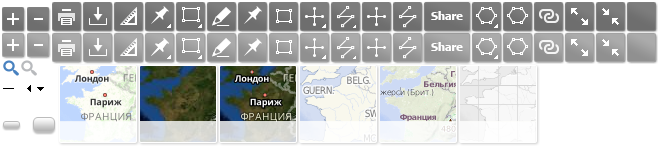
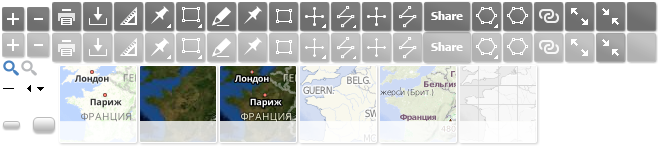
Текущая версия новых контролов

Changed region(s): [[0.0, 0.2192, 0.9105, 0.4384], [0.9408, 0.2192, 1.0, 0.4384]]

diff --git a/src-api/controlsBaseIcons.js b/src-api/controlsBaseIcons.js
@@ -1671,7 +1671,7 @@
             this.isVisible = flag;
         }
         ,remove: function() {      // удаление
-            if(Controls.id != gmxAPI.map.controlsManager.getCurrent()) return;
+            if(Controls.id != gmxAPI.map.controlsManager.getCurrentID()) return;
             this.forEach(function(item, i) {
                 if('remove' in item) item.remove();
             });
@@ -1693,21 +1693,136 @@
             });
             return res;
         }
-        ,
-        setControls: function(id) {
+         ,addControl: function(key, pt) {
+/*
+            var res = null;
+			var ph = gmxAPI.extend({
+                id: key || pt.id
+                ,isActive: false
+                ,attr: {
+                    title: pt.title || pt.hint
+                }
+                ,events: {}
+                ,style: gmxAPI.extend(pt.style, iconsControl.styleIcon, true)
+                ,hoverStyle: pt.hoverStyle
+            }, pt);
+
+            if(pt.onClick) ph.events.onclick = pt.onClick;
+			var item = iconsControl.addItemNode(ph);
+            iconsControl.itemsNode.appendChild(item);
+            var tool = {
+                id: ph.id
+                ,node: item
+            }
+            if(pt.type !== 'hideItem') {
+                iconsControl.items.push(tool);
+                iconsControl.items[ph.id] = tool;
+            }
+*/
+            var id = key || pt.id;
+            if(Controls.controlsHash[id]) return null; // такой контрол уже имеется
+            var title = pt.title || pt.hint;
+			var attr = {
+                id: id
+                ,rus: pt.rus || title
+                ,eng: pt.eng || title
+                ,style: gmxAPI.extend(pt.style, iconsControl.styleIcon, true)
+                ,hoverStyle: pt.hoverStyle
+            };
+            
+            if(pt.regularImageUrl) {
+                attr.src = pt.regularImageUrl;
+                attr.style = {
+                    position: 'relative'
+                    ,background: 'rgba(154, 154, 154, 0.7)'
+
+                };
+            }
+            if(pt.activeImageUrl) {
+                attr.srcHover = pt.activeImageUrl;
+                attr.hoverStyle = {
+                    position: 'relative'
+                    ,background: 'rgba(154, 154, 154, 1)'
+                };
+            }
+            if(pt.onClick) attr.onClick = pt.onClick;
+            if(pt.onCancel) attr.onCancel = pt.onCancel;
+            //if(pt.overlay) attr.onCancel = pt.onCancel;
+
+            // Добавление пользовательского контрола
+            var userControl = L.control.gmxControl({
+                title: gmxAPI.KOSMOSNIMKI_LOCALIZED(attr.rus, attr.eng)
+                ,isActive: false
+                ,onFinishID: null
+                ,type: id
+                ,onAdd: function() {
+                    //gmxAPI.setStyleHTML(this._container, attr.style);
+                    var my = this;
+                    var container = this._container;
+                    if(pt.regularImageUrl) {
+                        var className = 'leaflet-control-Image leaflet-control-' + this.options.type + '-Image';
+                        this._Image = L.DomUtil.create('img', className);
+                        this._Image.src = pt.regularImageUrl;
+                        container.appendChild(this._Image);
+                        gmxAPI.setStyleHTML(container, attr.style);
+                        L.DomEvent.on(container, 'mouseover', function (e) {
+                            if(pt.activeImageUrl) my._Image.src = pt.activeImageUrl;
+                            gmxAPI.setStyleHTML(container, attr.hoverStyle);
+                        });
+                        L.DomEvent.on(container, 'mouseout', function (e) {
+                            if(!my.options.isActive) {
+                                my._Image.src = pt.regularImageUrl;
+                                gmxAPI.setStyleHTML(container, attr.style);
+                            }
+                        });
+                    }
+                }
+                ,onclick: function(e) {
+                    if(!this.options.isActive) {
+                        this.options.isActive = true;
+                        if(attr.onClick) attr.onClick.call(this);
+                        if(pt.regularImageUrl) {
+                            this._Image.src = pt.activeImageUrl;
+                        }
+                        gmxAPI.setStyleHTML(container, attr.style);
+                    } else {
+                        this.options.isActive = false;
+                        if(attr.onCancel) attr.onCancel.call(this);
+                        if(pt.regularImageUrl) {
+                            this._Image.src = pt.regularImageUrl;
+                        }
+                        gmxAPI.setStyleHTML(container, attr.hoverStyle);
+                    }
+                }
+            });
+            userControl.addTo(gmxAPI._leaflet.LMap);
+            Controls.controlsHash[id] = userControl;
+            return userControl;
+        }
+       ,
+        setControls: function() {
             var outControls = {};
             var mbl = gmxAPI.map.baseLayersManager;
+            var defaultStyle = {
+                //backgroundImage: 'url("../../api/img/iconeControls.png")'
+                cursor: 'pointer'
+                ,width: '30px'
+                ,height: '30px'
+                ,clear: 'none'
+            }
 
             // gmxControl - прототип контрола из одной кнопки
             L.Control.gmxControl = L.Control.extend({
                 options: {
                     isVisible: true,
                     type: '',
+                    onclick: null,
+                    onAdd: null,
                     position: 'topleft'
                 }
                 ,
                 _initLayout: function () {
-                    var className = 'leaflet-control-' + this.options.type,
+                    var className = 'leaflet-control-icons leaflet-control-' + this.options.type,
                         container = this._container = L.DomUtil.create('div', className);
 
                     if(this.options.title) container.title = this.options.title;
@@ -1718,8 +1833,10 @@
                 }
                 ,
                 onAdd: function (map) {
-                    if(this.options.onAdd) this.options.onAdd.call(this, map);
-                    return this._initLayout();
+                    var ret = this._initLayout();
+                    gmxAPI.setStyleHTML(this._container, this.options.style || defaultStyle);
+                    if(this.options.onAdd) this.options.onAdd.call(this, ret);
+                    return ret;
                 }
             });
             L.control.gmxControl = function (options) {
@@ -1871,7 +1988,7 @@
                 ,isActive: false
                 ,type: 'drawingZoom'
                 ,onclick: function(e) {
-                    var className = 'leaflet-control-' + this.options.type + '-Active';
+                    var className = 'leaflet-control-icons leaflet-control-' + this.options.type + '-Active';
                     if(!gmxAPI._drawing.BoxZoom) {
                         gmxAPI._drawFunctions.zoom();
                         L.DomUtil.addClass(this._container, className);
@@ -1881,9 +1998,9 @@
                         L.DomUtil.removeClass(this._container, className);
                     }
                 }
-                ,onAdd: function(map) {
+                ,onAdd: function(cont) {
                     var my = this;
-                    map.on('boxzoomend', function() {
+                    this._map.on('boxzoomend', function() {
                         L.DomUtil.removeClass(my._container, 'leaflet-control-' + my.options.type + '-Active');
                     });
                 }
@@ -1900,7 +2017,7 @@
                 ,type: 'drawingPoint'
                 ,onclick: function(e) {
                     var my = this;
-                    var className = 'leaflet-control-' + this.options.type + '-Active';
+                    var className = 'leaflet-control-icons leaflet-control-' + this.options.type + '-Active';
                     var stop = function() {
                         L.DomUtil.removeClass(my._container, className);
                         my.options.isActive = false;

diff --git a/src-api/ToolsContainer.js b/src-api/ToolsContainer.js
@@ -46,13 +46,13 @@
 		// стили контейнера
 		var style = { display: 'block', styleFloat: 'left', cssFloat: 'left', marginLeft: '4px', borderRadius: '4px', backgroundColor: '#9A9A9A' };
 		// стили добавляемых юзером элементов tool
-		var regularStyle = { paddingTop: "4px", paddingBottom: "4px", paddingLeft: "10px", paddingRight: "10px", fontSize: "12px", fontFamily: "sans-serif", fontWeight: "bold", textAlign: "center", cursor: "pointer", opacity: 1, color: "white"	};
+		var regularStyle = { paddingTop: "0px", paddingBottom: "0px", paddingLeft: "10px", paddingRight: "10px", fontSize: "12px", fontFamily: "sans-serif", fontWeight: "bold", textAlign: "center", cursor: "pointer", opacity: 1, color: "white"	};
 		var activeStyle = { paddingTop: "4px", paddingBottom: "4px", paddingLeft: "10px", paddingRight: "10px", fontSize: "12px", fontFamily: "sans-serif", fontWeight: "bold", textAlign: "center", cursor: "pointer", opacity: 1, color: "orange"	};
 
 		var isDefaultControl = (gmxAPI.map.controlsManager.getCurrent() === 'controlsBase');
 
         if(isDefaultControl) {
-            style = { display: 'block', styleFloat: 'left', cssFloat: 'left', marginTop: '40px', marginLeft: '4px', padding: '4px 0' };
+            style = { display: 'block', styleFloat: 'left', cssFloat: 'left', marginTop: '40px', marginLeft: '4px', padding: '0px;' };
             // Установка backgroundColor c alpha
             if(gmxAPI.isIE && document.documentMode < 10) {
                 style.filter = "progid:DXImageTransform.Microsoft.gradient(startColorstr=#7F016A8A,endColorstr=#7F016A8A)";
@@ -263,7 +263,11 @@
                     return;
                 }
 
-                if(!my.itemsContainer) my.itemsContainer = (createContainerNode ? createContainerNode() : my.createContainerNode('div', properties, style));
+//                if(!my.itemsContainer) my.itemsContainer = (createContainerNode ? createContainerNode() : my.createContainerNode('div', properties, style));
+                if(!my.itemsContainer) {
+                    if(createContainerNode) createContainerNode();
+                    else my.createContainerNode('div', properties, style);
+                }
 
                 if(!attr.alias) attr.alias = tn
                 aliasNames[attr.alias] = tn;
@@ -402,7 +406,12 @@
                 this.node = node
                 gmxAPI._toolsContHash[name] = node;
                 
-                var table = gmxAPI.newElement("table", {}, {borderCollapse: 'collapse'});
+                var table = gmxAPI.newElement("table", {}, {
+                    borderCollapse: 'collapse'
+                    ,margin: '0px'
+                    ,width: 'auto'
+                    ,backgroundColor: 'rgba(1, 106, 138, 0)'
+                });
                 node.appendChild(table);
                 my.itemsContainer = gmxAPI.newElement("tbody", {}, {});
                 table.appendChild(this.itemsContainer);

diff --git a/src-api/drawingLeaflet.js b/src-api/drawingLeaflet.js
@@ -642,6 +642,7 @@
                             domObj.geometry.type = 'POLYGON';
 							addPoint(coords[0]);
 							layerItems[2].options.skipLastPoint = true;
+                            repaint(false);
 						}
 						//if(len == 1) len = 0;
 					}
@@ -1816,9 +1817,8 @@
 		,
 		addTool: function(tn, hint, regularImageUrl, activeImageUrl, onClick, onCancel)
 		{
-			var control = gmxAPI.IconsControl || gmxAPI._drawing.control;
-			if(!control) return null;
-			var ret = control.addTool(tn, {
+			var ret = null;
+			var attr = {
 				'key': tn,
 				'activeStyle': {},
 				'regularStyle': {},
@@ -1827,7 +1827,24 @@
 				'onClick': onClick,
 				'onCancel': onCancel,
 				'hint': hint
-			});
+			};
+            var controls = gmxAPI.map.controlsManager.getCurrent();
+            if(controls && 'addControl' in controls) {
+                ret = controls.addControl(tn, attr);
+            } else {
+                var control = gmxAPI.IconsControl || gmxAPI._drawing.control;
+                if(!control) return null;
+                ret = control.addTool(tn, {
+                    'key': tn,
+                    'activeStyle': {},
+                    'regularStyle': {},
+                    'regularImageUrl': regularImageUrl,
+                    'activeImageUrl': activeImageUrl,
+                    'onClick': onClick,
+                    'onCancel': onCancel,
+                    'hint': hint
+                });
+            }
 			return ret;
 		}
 		, 

diff --git a/src-api/leafletProxy.js b/src-api/leafletProxy.js
@@ -4187,9 +4187,9 @@
 				// gmxAPI.map.standartTools.remove();
 			// }
 		}});
-		var controlsType = gmxAPI.map.controlsManager.getCurrent();
-        if(controlsType === 'controlsBaseIcons') {
-            gmxAPI.map.controlsManager.setControls(controlsType);
+		var controls = gmxAPI.map.controlsManager.getCurrent();
+        if(controls && 'setControls' in controls) {
+            controls.setControls();
         }
 	}
 	
@@ -4377,6 +4377,13 @@
 				gmxAPI._leaflet['utils'].chkGlobalEvent(attr);
 				//gmxAPI._listeners.dispatchEvent('onMouseDown', null, {});
 			};
+/*            L.DomEvent.on(document, 'keydown', function(e) {
+                if (e.keyCode === 16) {
+                    gmxAPI._drawFunctions.zoom();
+                }
+            }, this);
+*/
+            
 			LMap.on('mousedown', setMouseDown);
 			var setTouchStart = function(e) {
 				gmxAPI.mousePressed	= gmxAPI._leaflet['mousePressed'] = true;

diff --git a/src-api/ControlsManager.js b/src-api/ControlsManager.js
@@ -156,11 +156,19 @@
             ,remove: function(id) {
                 ControlsManager.removeById(id);
             }
-            ,/** Получить идентификатор текущего типа контролов
+            ,
+            /** Получить идентификатор текущего типа контролов
+            * @memberof Controls#
+            */
+            getCurrentID: function() {
+                return ControlsManager.currentID;
+            }
+            ,
+            /** Получить текущий набор контролов
             * @memberof Controls#
             */
             getCurrent: function() {
-                return ControlsManager.currentID;
+                return ControlsManager.getCurrent() || null;
             }
             ,setCurrent: function(id) {
                 return ControlsManager.setCurrent(id);

diff --git a/leaflet/leafletGMX.css b/leaflet/leafletGMX.css
@@ -1,3 +1,25 @@
+.leaflet-control-Image {
+    bottom: 0;
+    left: 0;
+    margin: auto;
+    position: absolute;
+    right: 0;
+    top: 0;
+}
+.leaflet-control-icons {
+    /*background-color: #9A9A9A;*/
+    border-radius: 4px;
+    cursor: pointer;
+    display: block;
+    float: left;
+    height: 30px;
+    margin-left: 6px;
+    position: relative;
+    width: 30px;
+    cursor: pointer;
+    clear: none;
+}
+
 .leaflet-control-Drawing-FRAME {
     background-image: url("../../api/img/iconeControls.png");
     background-position: -269px -33px;
@@ -40,10 +62,6 @@
 .leaflet-control-drawingPoint {
     background-image: url("../../api/img/iconeControls.png");
     background-position: -238px -33px;
-    cursor: pointer;
-    width: 30px;
-    height: 30px;
-    clear: none;
     float: left;
 }
 .leaflet-control-drawingPoint:hover, .leaflet-control-drawingPoint-Active {

diff --git a/src-api/BaseLayersManager.js b/src-api/BaseLayersManager.js
@@ -34,10 +34,10 @@
                     }
                 }
                 attr.isVisible = true
-                this.setVisible(false);     // слои подложек изначально не видимы
                 //var baseLayers = manager.add(id, ruTitle, enTitle);
 				var baseLayer = manager.add(id, attr);
                 baseLayer.addLayer(this);
+                this.setVisible(false);     // слои подложек изначально не видимы
             });
 			gmxAPI.extend(manager.map,
             {

diff --git a/src-api/controlsBase.js b/src-api/controlsBase.js
@@ -1171,7 +1171,7 @@
             });
         }
         ,remove: function() {      // удаление
-            if(Controls.id != gmxAPI.map.controlsManager.getCurrent()) return;
+            if(Controls.id != gmxAPI.map.controlsManager.getCurrentID()) return;
             this.forEach(function(item, i) {
                 if('remove' in item) item.remove();
             });
